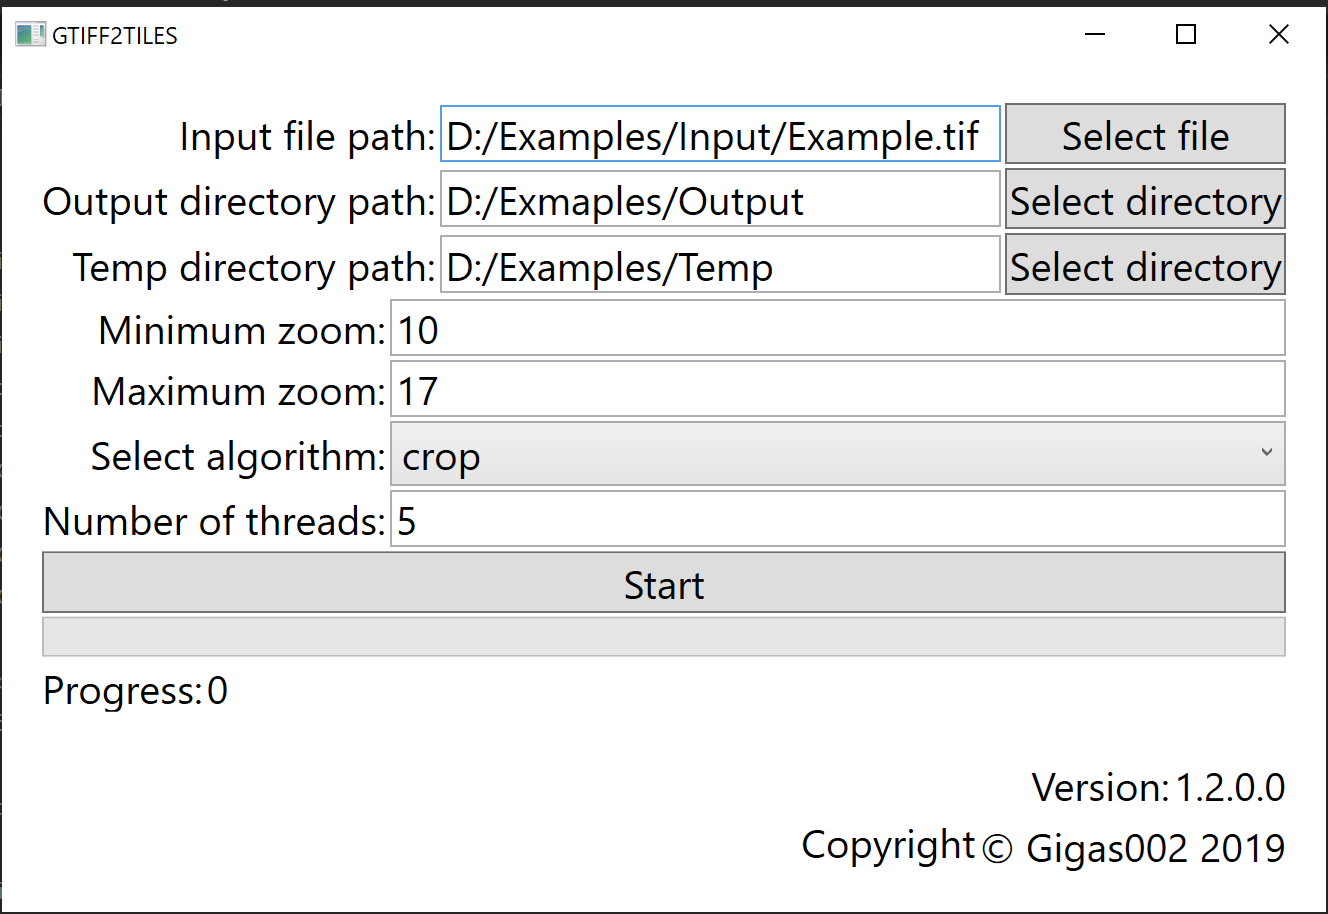
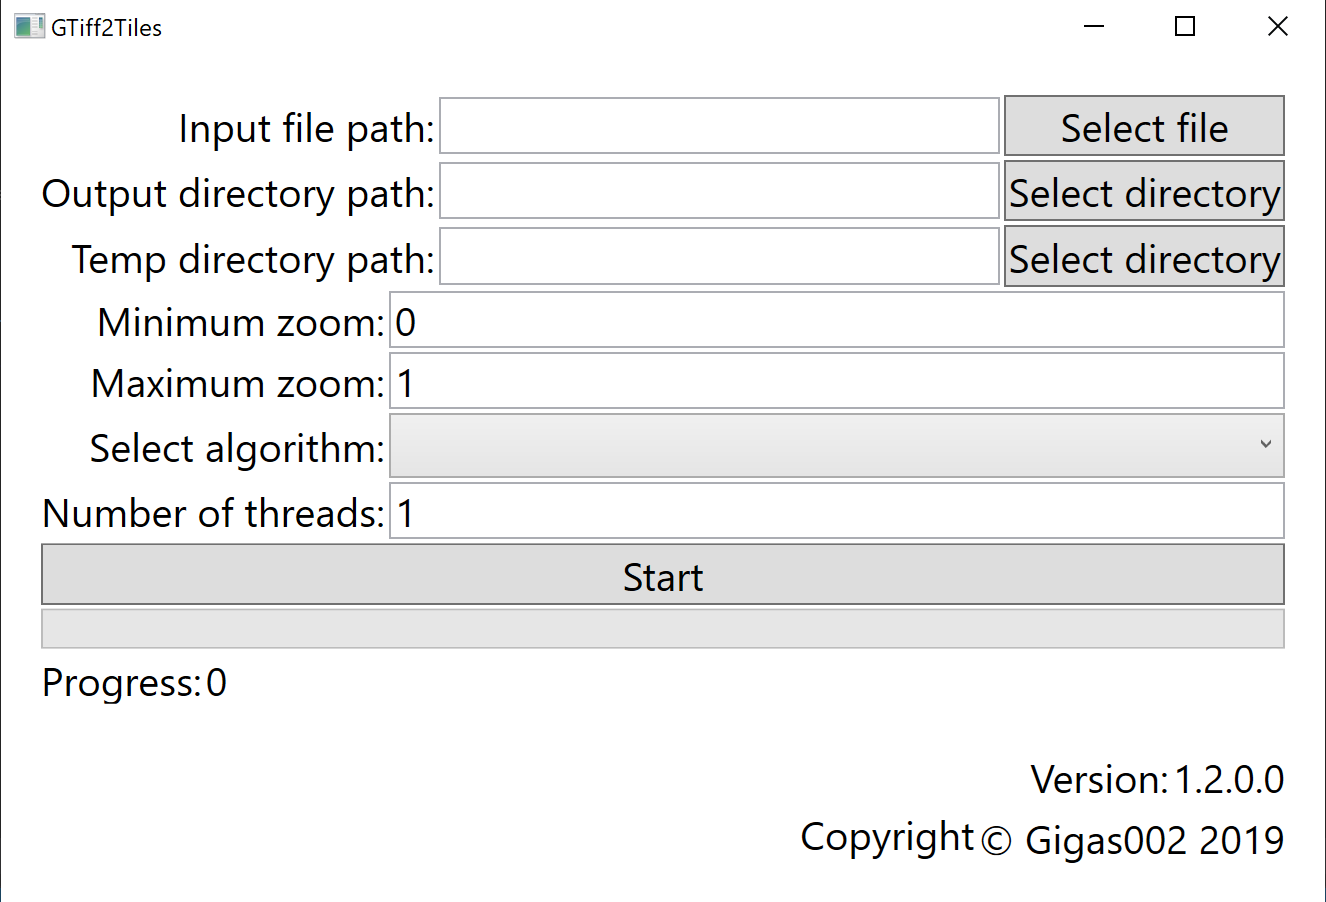
Minor fixes

diff --git a/GTiff2Tiles.GUI/Views/MainView.xaml b/GTiff2Tiles.GUI/Views/MainView.xaml
@@ -6,7 +6,7 @@
         xmlns:cal="http://www.caliburnproject.org"
         mc:Ignorable="d"
         TextElement.FontSize="20"
-        Title="GTIFF2TILES"
+        Title="GTiff2Tiles"
         Height="460"
         Width="675"
         MinHeight="460"

diff --git a/README.md b/README.md
@@ -1,4 +1,4 @@
-# GTIFF2TILES
+# GTiff2Tiles
 
 Analogue of [gdal2tiles.py](https://github.com/OSGeo/gdal/blob/master/gdal/swig/python/scripts/gdal2tiles.py) on **C#**. Currently support any **GeoTIFF**, but creates **EPSG:4326** **geodetic tiles** on output in [**tms**](https://wiki.osgeo.org/wiki/Tile_Map_Service_Specification) structure.
 
@@ -8,7 +8,7 @@ Solution is build in **VS2019 (16.1)**, **.NET Framework 4.7.2**, targeting **Wi
 
 ## Table of contents
 
-- [GTIFF2TILES](#gtiff2tiles)
+- [GTiff2Tiles](#gtiff2tiles)
   * [Table of contents](#table-of-contents)
   * [Current version](#current-version)
   * [Examples](#examples)
